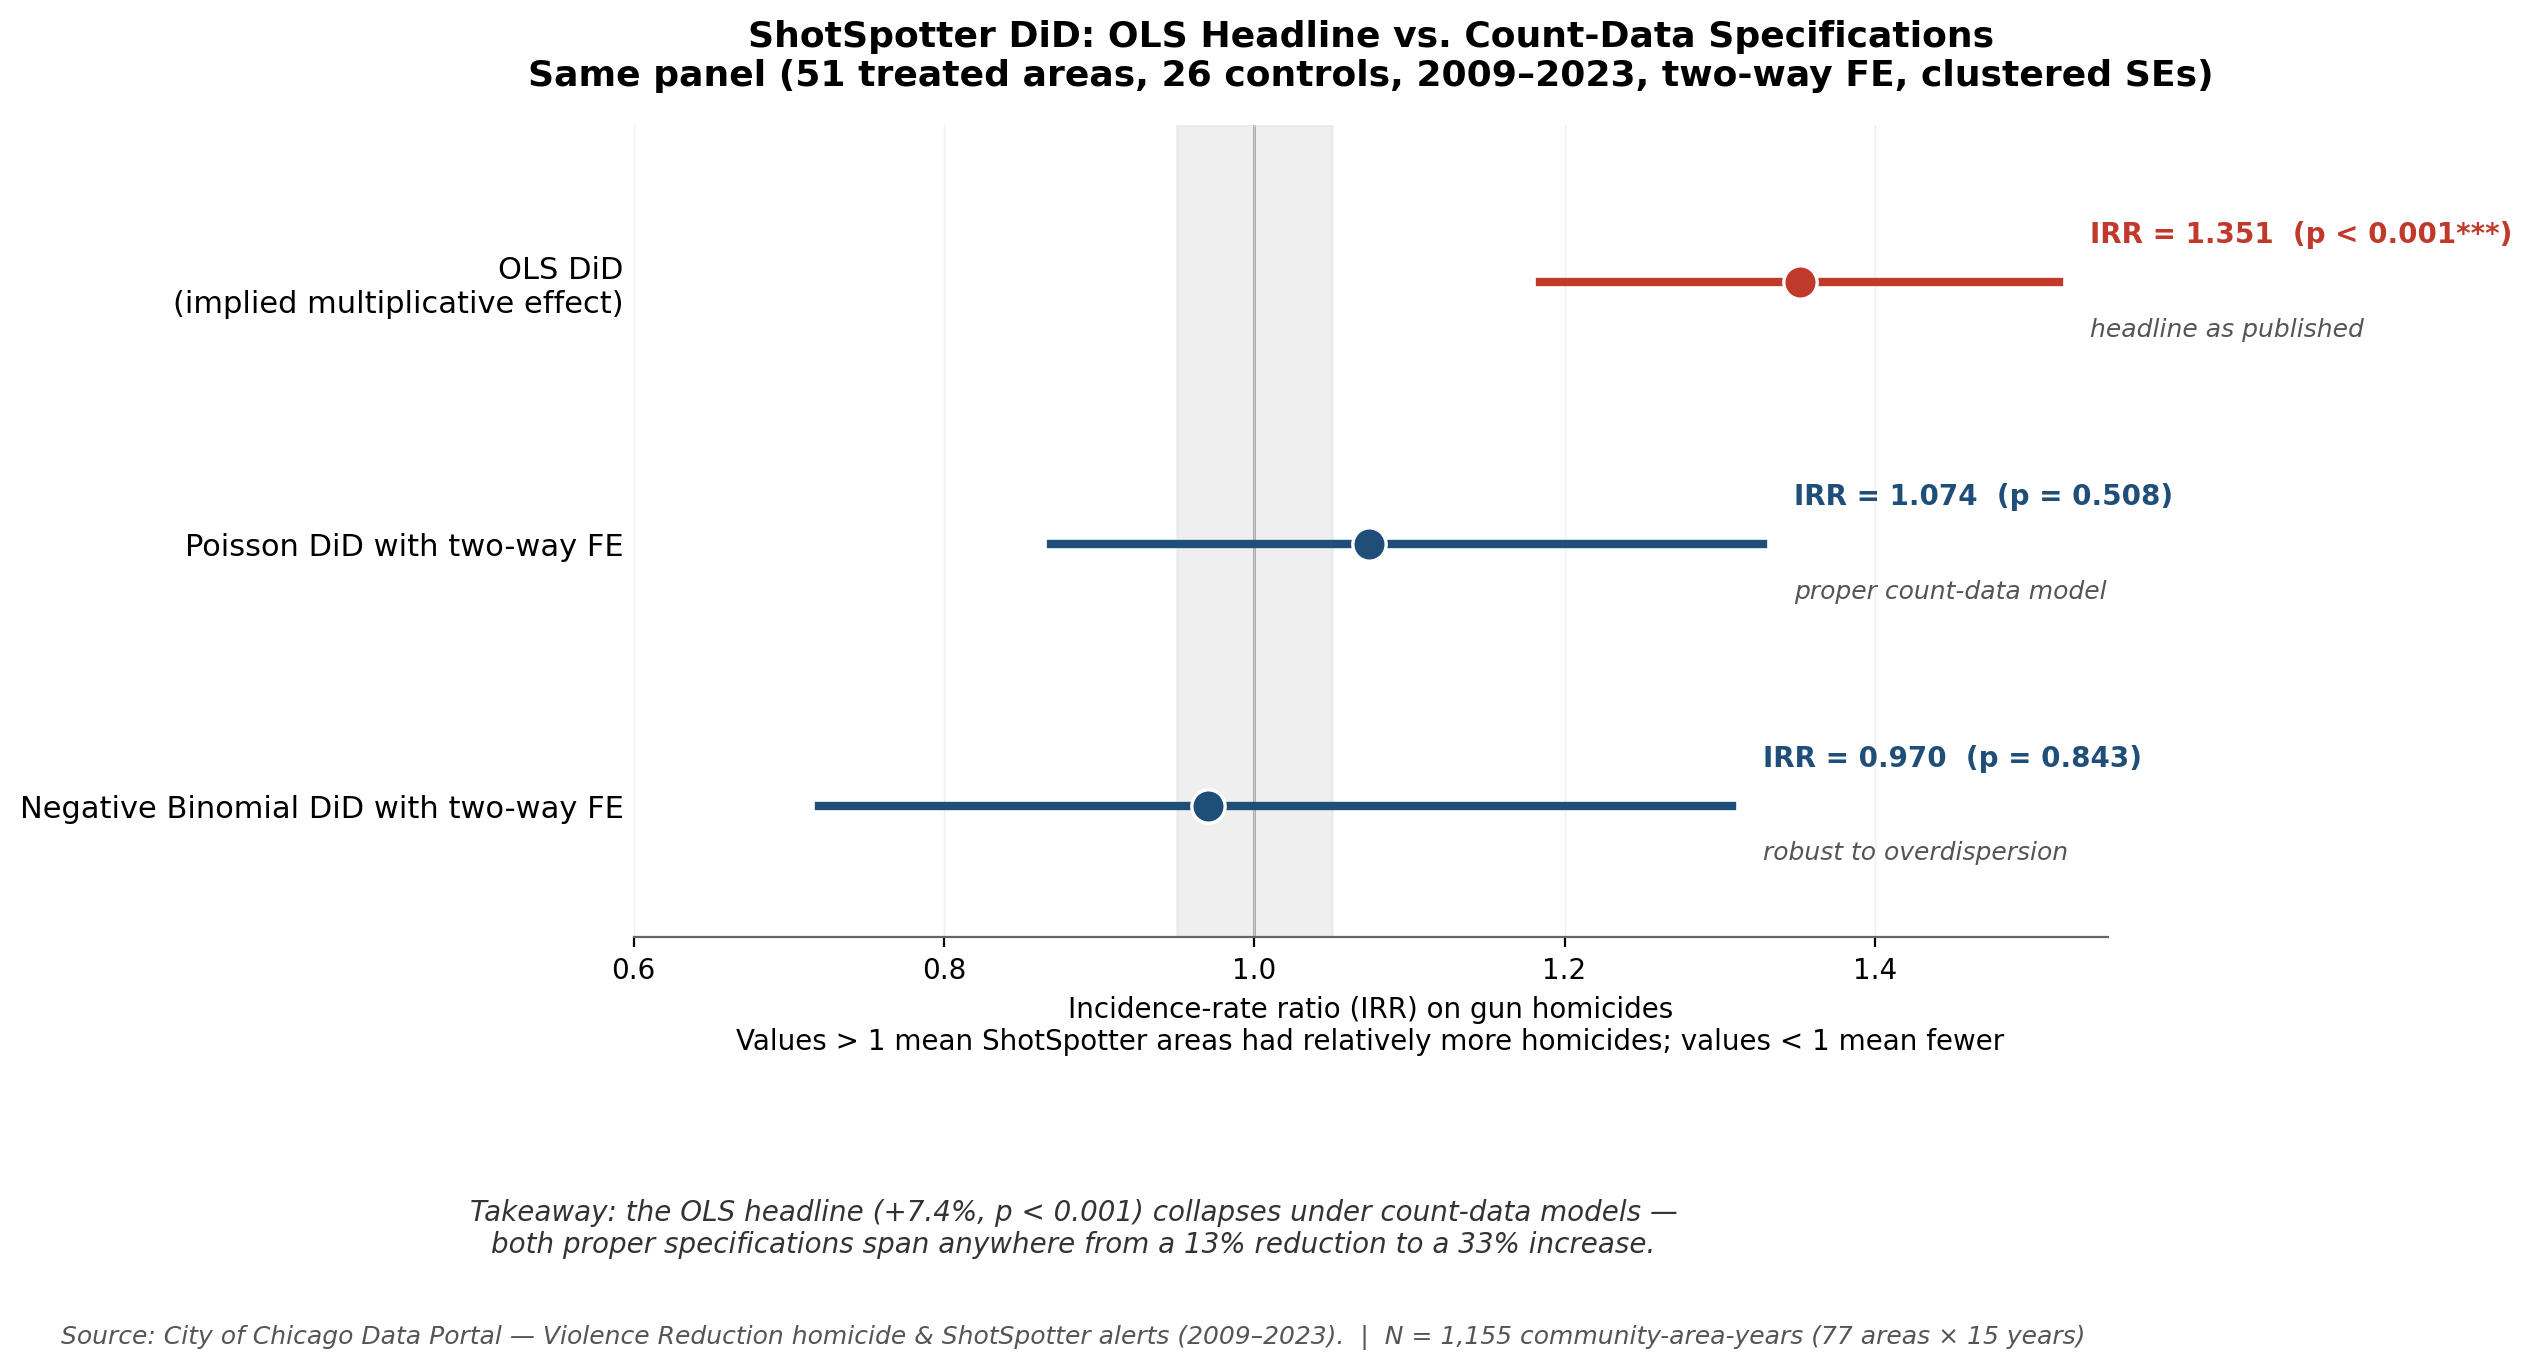
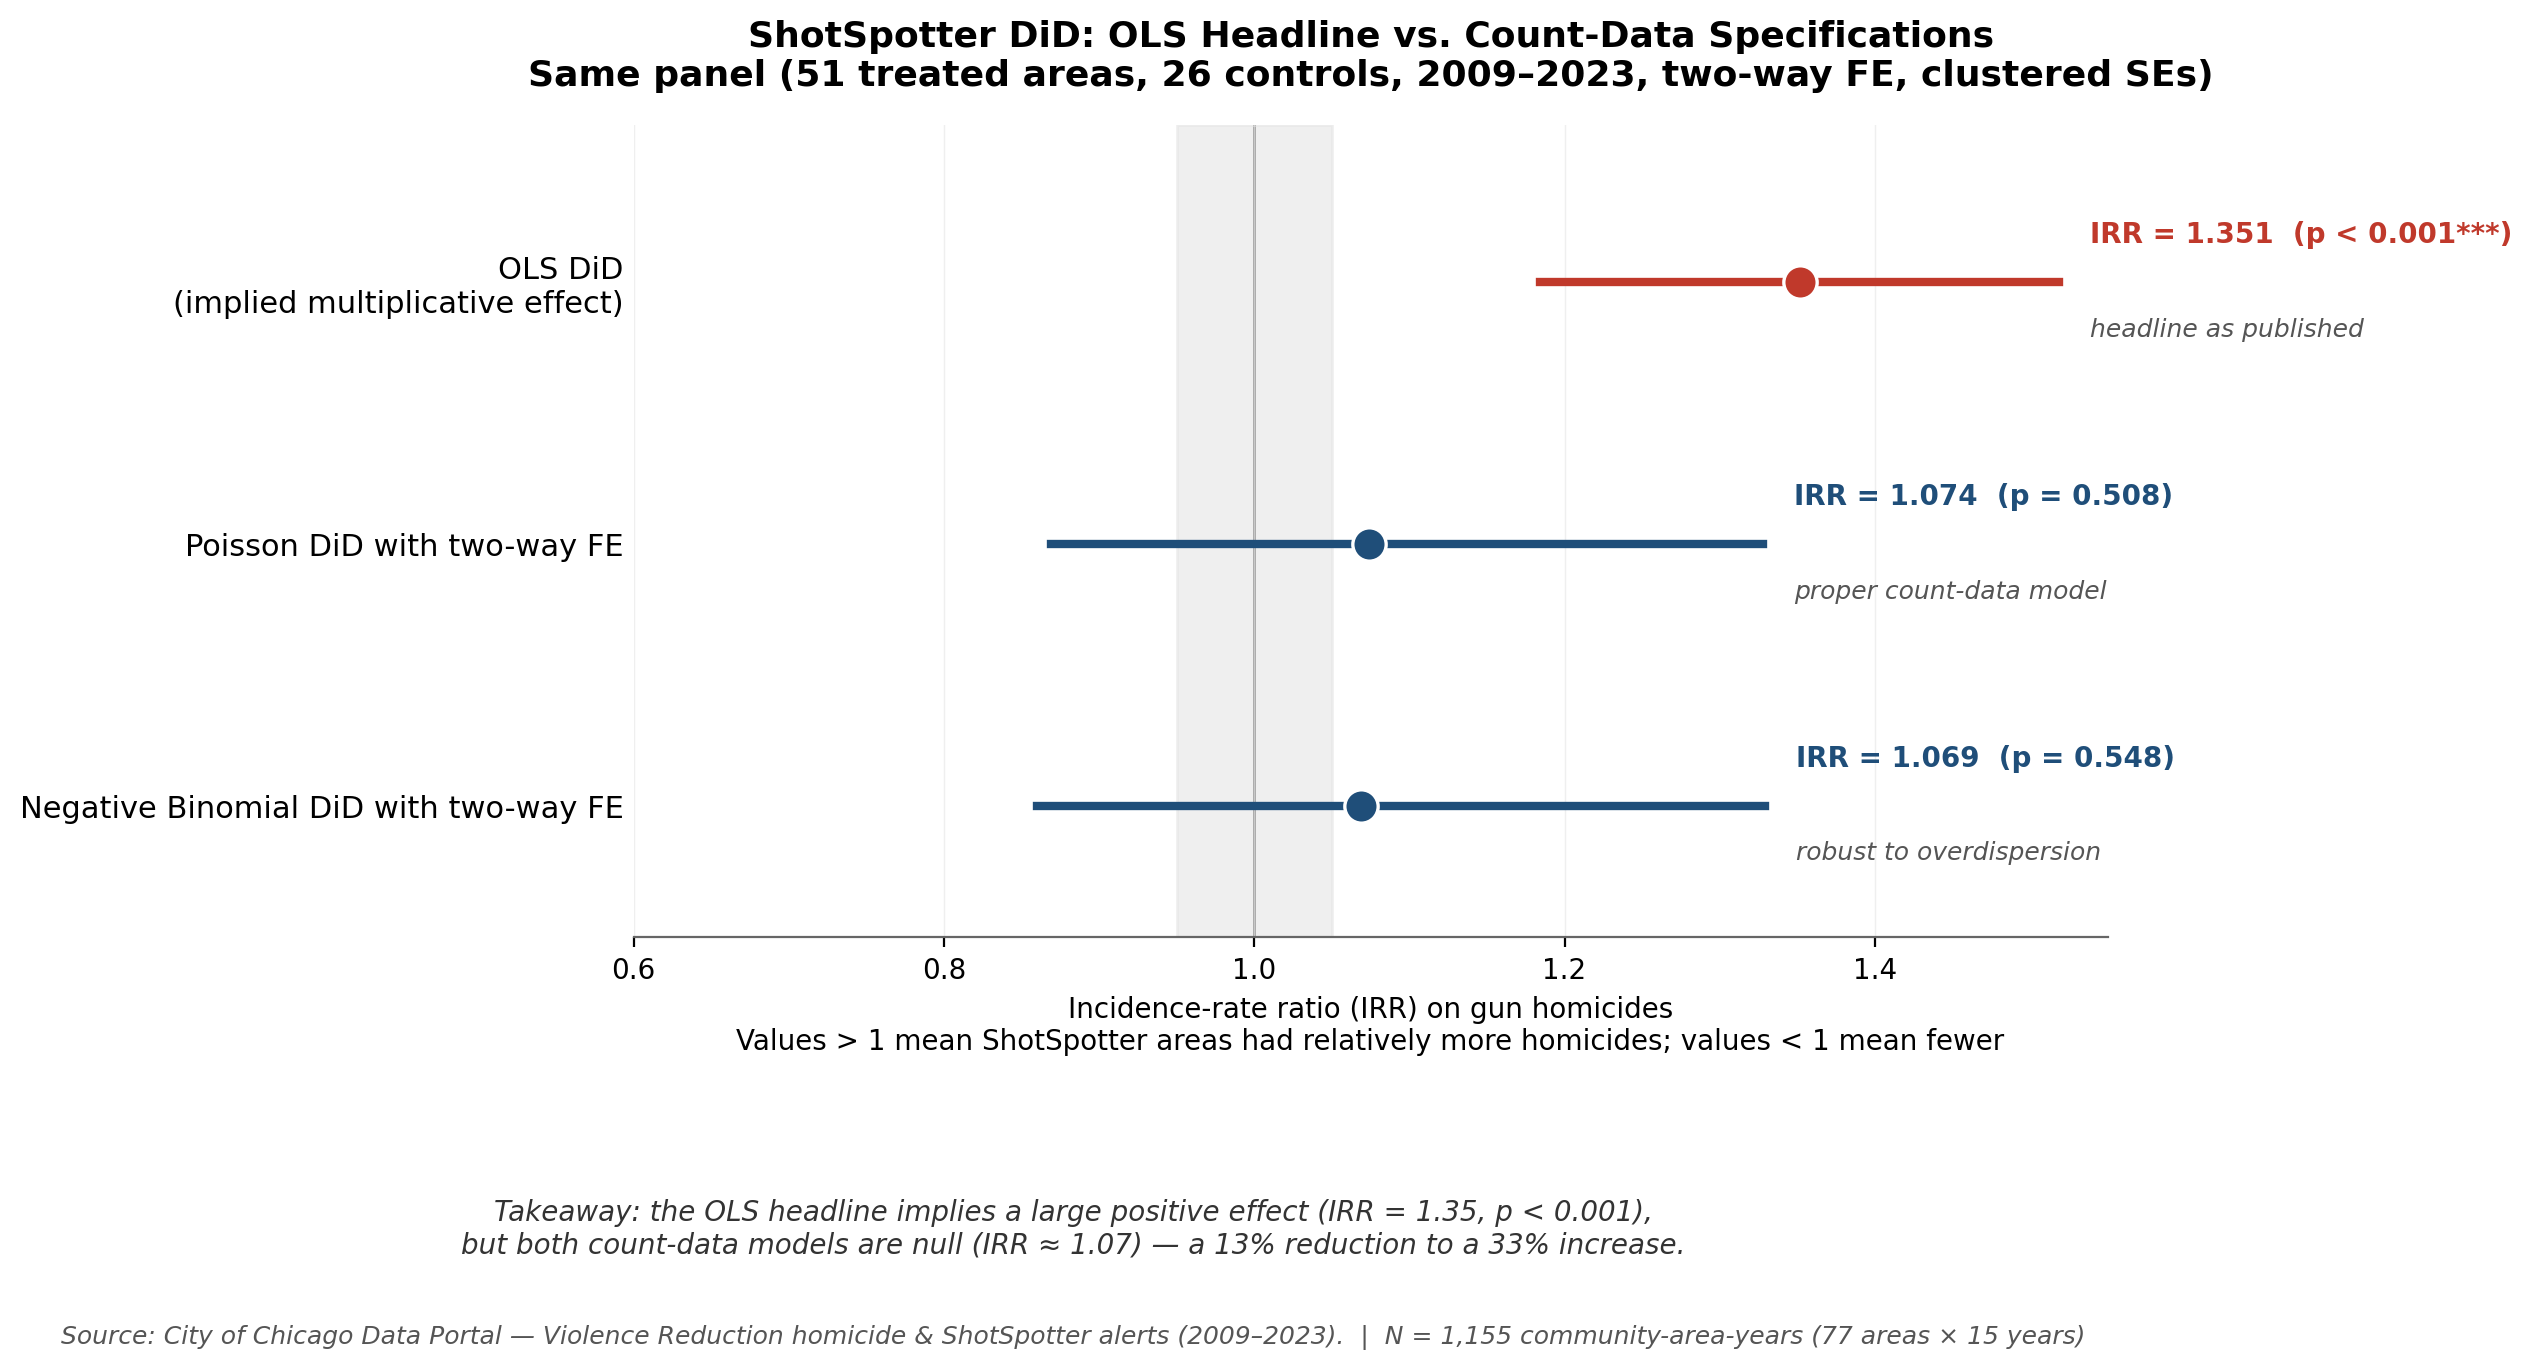
Fix figure/text consistency in the headline specification plot
The specification-comparison figure was generated before the dispersion change, so it
showed the old Negative Binomial IRR (0.97) and a hardcoded, mislabeled "+7.4%"
takeaway (that is the Poisson number, not the OLS headline). Estimate the NegBin
dispersion in make_narrative_plots.py to match the rest of the pipeline (IRR now 1.07),
and make the takeaway accurate and dynamic (OLS implies IRR 1.35; count models null at
IRR ~1.07). Updated the README caption to match. All figure/table/text numbers now agree.

diff --git a/scripts/make_narrative_plots.py b/scripts/make_narrative_plots.py
@@ -131,9 +131,13 @@ pois_irr = float(np.exp(pois_b))
 pois_irr_lo = float(np.exp(pois_ci[0]))
 pois_irr_hi = float(np.exp(pois_ci[1]))
 
-# Negative Binomial
+# Negative Binomial — dispersion estimated (Cameron-Trivedi NB2 auxiliary regression),
+# not fixed at 1, to match scripts/econometric_robustness.py.
+_mu = pois.fittedvalues
+_z = ((panel_main["gun_hom"].astype(float) - _mu) ** 2 - panel_main["gun_hom"]) / _mu
+nb_alpha = max(float(sm.OLS(_z, _mu).fit().params.iloc[0]), 1e-6)
 nb = smf.glm("gun_hom ~ did + C(ca_num) + C(year)", data=panel_main,
-             family=sm.families.NegativeBinomial(alpha=1.0)).fit(
+             family=sm.families.NegativeBinomial(alpha=nb_alpha)).fit(
     cov_type="cluster", cov_kwds={"groups": panel_main["ca_num"]})
 nb_b = nb.params["did"]
 nb_se = nb.bse["did"]
@@ -182,9 +186,12 @@ ax.spines["left"].set_visible(False)
 ax.tick_params(axis="y", length=0)
 
 # Takeaway moved to figure-level text below the axes (no longer competes for axis space)
+_red = round((1 - pois_irr_lo) * 100)
+_inc = round((pois_irr_hi - 1) * 100)
 fig.text(0.5, 0.07,
-         "Takeaway: the OLS headline (+7.4%, p < 0.001) collapses under count-data models —\n"
-         "both proper specifications span anywhere from a 13% reduction to a 33% increase.",
+         f"Takeaway: the OLS headline implies a large positive effect (IRR = {ols_irr:.2f}, p < 0.001),\n"
+         f"but both count-data models are null (IRR ≈ {pois_irr:.2f}) — "
+         f"a {_red}% reduction to a {_inc}% increase.",
          fontsize=10, color="#333333", style="italic", ha="center", va="bottom")
 
 add_source_note(fig, SOURCE_DEFAULT,

diff --git a/README.md b/README.md
@@ -24,8 +24,9 @@ order; [NARRATIVE.md](NARRATIVE.md) is the full write-up.
 
 ![OLS headline vs. count-data specifications](plots/specification_comparison.png)
 
-*The whole story in one figure: the OLS headline (+7.4% implied, p < 0.001) collapses
-to a statistically null incidence-rate ratio under both proper count-data models.*
+*The whole story in one figure: the OLS headline implies a large positive effect
+(IRR ≈ 1.35, p < 0.001) but collapses to a statistically null incidence-rate ratio
+(≈ 1.07) under both proper count-data models.*
 
 ## Headline result at a glance
 
